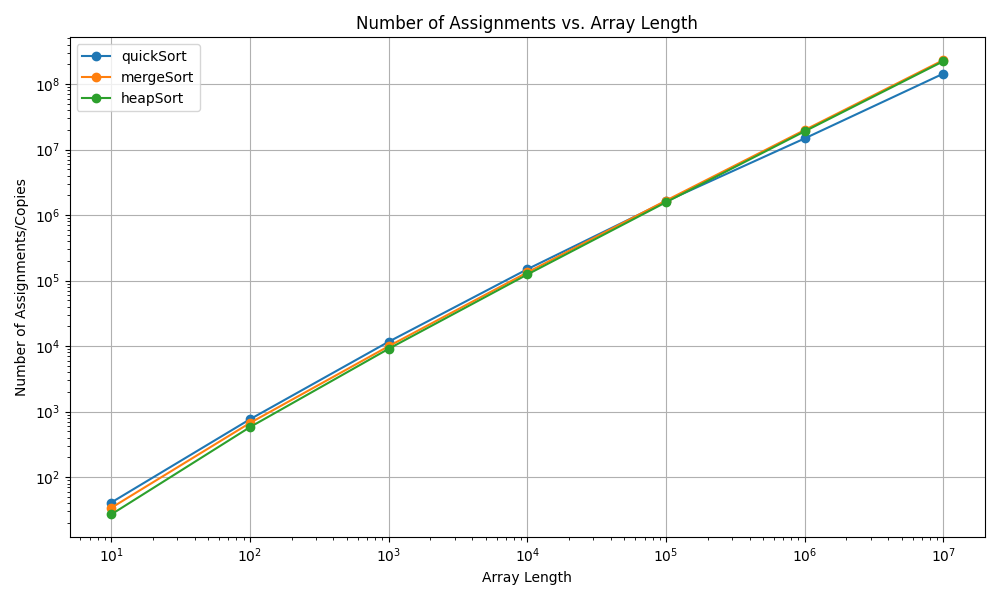
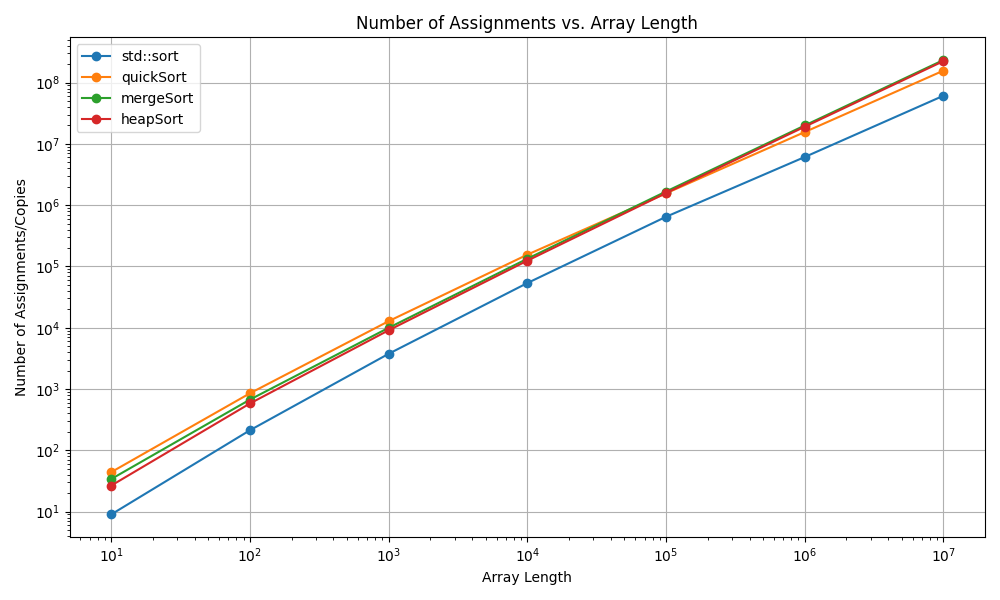
images x10$

diff --git a/1. Divide and Conquer/1. Sorting algorithms.md b/1. Divide and Conquer/1. Sorting algorithms.md
@@ -540,3 +540,15 @@ $$
 | Heap sort   |    **$O(n\log n)$**       |      **$O(n\log n)$**     |      **$O(n\log n)$**     |       **$O(1)$**        |
 | Bubble sort |       **$O(n)$**          |      **$O(n^2)$**         |      **$O(n^2$)**         |      **$O(1)$**         |
 | Count sort  |    **$O(n + m)$**         |      **$O(n + m)$**       |      **$O(n + m)$**       |       **$O(m)$**        |
+
+## Как дела обстоят на практике
+
+Асимптотическая сложность - это еще не все. Важна также информация про коэффициент ассимптотики. 
+
+Так например мы получили достаточно точные верхние оценки для среднего числа сравнений алгоритмов `quickSort` и `mergeSort`.
+
+Для `mergeSort` у нас получилось $n \cdot (\lceil\log_2n\rceil + 2) \sim n\log_2 n$ <br>
+А для `quickSort` у нас получилось $2n \ln n = 2\ln 2 \cdot n\log_2 n \sim 1.38 \cdot n\log_2 n$
+
+То есть казалось бы, что `quickSort` должен работать медленнее чем `mergeSort`, но учтем, что $2n \ln n$ все же была оценкой сверху среднего случая `quickSort` согласно доказательству и, возможно, `quickSort` будет работать чуть быстрее.
+
